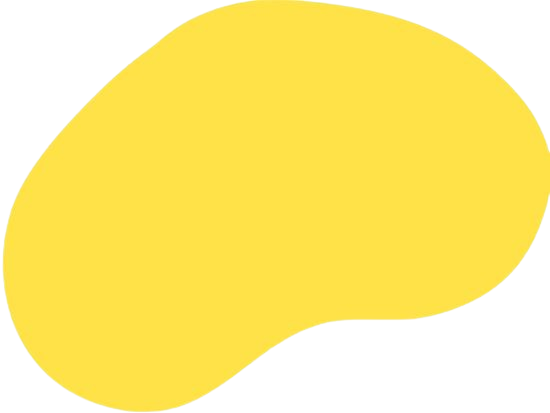
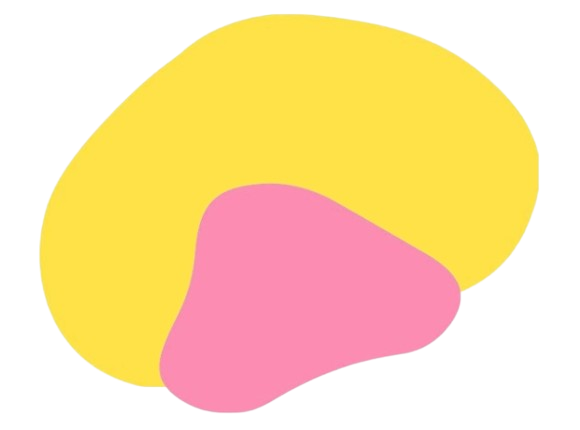
portfolio

diff --git a/src/pages/Home.jsx b/src/pages/Home.jsx
@@ -1,7 +1,6 @@
 import { FaBars, FaX  } from "react-icons/fa6"
-
-import Blod2 from '../imgs/Blod2.png'
 import { useState } from "react"
+import Blod from '../imgs/Blod.png'
 
 export default function Home (){
 
@@ -34,15 +33,16 @@ export default function Home (){
                 </div>
                 </div>
             </div>
-            <div className="sm:flex sm:justify-center sm:gap-[120px] sm:pt-[110px] ">
-            <div className='grid justify-items-center items-center pt-[100px] sm:pt-0 sm:h-[50px] sm:mt-[90px]'>
-                <h1 className='font-bold text-[#2a2a2a] mt-[20%] flex text-center text-[40px] sm:ml-[33px] '>Caroline Tenorio</h1>
-                <p className='text-[#666666] text-[19px]'>Desenvolvedora de Software</p>
-                <button className='w-[270px] h-[60px] text-[19px] bg-[#73d6ef] text-white mt-[30px] mb-[20px] '>Contact-me</button>
+            <div className="sm:flex sm:justify-center sm:gap-[120px] sm:pt-[0px] sm:items-center sm:mx-[50px] ">
+            <div className='grid justify-items-center items-center pt-[100px] sm:pt-[0px] sm:flex-col sm:justify-items-start '>
+                <h1 className='font-bold text-[#2a2a2a] mt-[20%] flex text-center text-[40px]  sm:mt-[0px]  '>Caroline Tenorio</h1>
+                <p className='text-[#666666] text-[19px] '>Desenvolvedora de Software</p>
+                <button className='w-[270px] h-[60px] text-[19px] bg-[#73d6ef] text-white mt-[30px] mb-[20px]  '>Contact-me</button>
             </div>
-            <div className=" mt-[7%] ">
-                <div id="img-home"> <img className="" src={Blod2} />  </div>
-                
+            <div className="flex justify-center sm:h-[100vh] sm:items-center ">
+            <div className=" mt-[7%] sm:mt-[0]">
+            <img className="w-[350px] sm:w-[455px]" src={Blod} />
+            </div>
             </div>
             </div>
         </div>

diff --git a/src/App.css b/src/App.css
@@ -12,10 +12,4 @@ p{
   font-family: "Montserrat", sans-serif;
   
 }
-#img-home{
-  background-image: url('./imgs/Blod.png');
-  background-size: cover;
-  width: 405px;
-  height: 300px;
-  padding-top: 120px;
-}
+
